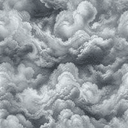
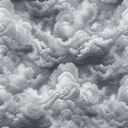
v1.45: sky walls tile upward so the clouds keep their shape

diff --git a/index.html b/index.html
@@ -21,7 +21,7 @@
    BELOW THE ABBEY  -  a small grid-based first-person dungeon crawler
    Design space 480x320 (canvas is 2x).  3D viewport is 420x210 design units.
    ========================================================================== */
-const VERSION='1.44';
+const VERSION='1.45';
 const FUI="'IM Fell English SC',Georgia,serif", FTXT="'IM Fell English',Georgia,serif", FTITLE="'UnifrakturCook','IM Fell English SC',Georgia,serif";
 const DW=480, DH=320;
 const cv=document.getElementById('c'), ctx=cv.getContext('2d');
@@ -2226,6 +2226,7 @@ function render3D(){
     const tv=(g===1||g===2)?torchAt.get((my*MW+mx)*4+face):0;
     if(tv&&LEVEL===31&&T_TORCH_GOLD!==undefined){ti=T_TORCH_GOLD+((fr+((mx*7+my*3)&3)*2)&7)}else if(tv){const ph=((mx*7+my*3)&3);ti=(g===1?(tv===2?T_TORCH_STONE_R:T_TORCH_STONE):(tv===2?T_TORCH_BRICK_R:T_TORCH_BRICK))+((fr+ph*2)&7)}
     if(LEVEL===22&&g===1&&T_SKY[0]!==undefined)tx=(tx+((t*5)|0))&(TS-1); // the sky drifts past
+    const skyW=LEVEL===22&&g===1&&T_SKY[0]!==undefined;
     const tex=TEX[ti],td=tex.d,te=tex.e;
     const dist=perp*Math.hypot(rX,rY);
     const lb=Math.max(baseL(dist),lbm);let lt=0;
@@ -2238,7 +2239,7 @@ function render3D(){
     const stepT=TS/lineH,smw=Math.min(hzmax,dist*hzrate),skw=(lb*.55+lt*.45+.05)*smw,ivw=1-smw;
     let tyf=(ds-y0)*stepT;
     for(let y=ds;y<=de;y++,tyf+=stepT){
-      const v=tyf>=TS?TS-1:(tyf|0);
+      const v=skyW?(((tyf*CEILH)|0)&(TS-1)):(tyf>=TS?TS-1:(tyf|0)); // sky walls tile upward instead of stretching
       const i=(v*TS+tx)*4,o=(y*VW+x)*4;
       const vy=(y-HH)/HH,vg=1-.28*vy*vy,zz=(yBot-y)/unit;
       let ltp=0;for(let k=0,j=0;k<nn;k+=3,j++){const dz=zz-.66;ltp+=nl[k+2]/(1+1.15*(wd2[j]+dz*dz))}
